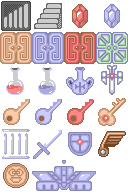
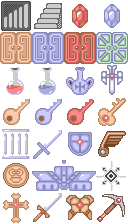
添加了新的怪物

diff --git a/javascript/gameData.js b/javascript/gameData.js
@@ -16,7 +16,7 @@ globalData = {
   mapCol: 11,
   mapRow: 11,
   size: 32,
-  floor: 0, // 7
+  floor: 7, // 7
   playerInfo: {
     HP: 1000,
     ATK: 20,
@@ -266,11 +266,11 @@ globalData = {
     things: [
       ['goods_0_1', 0, 0, 0, 0, 0, 0, 0, 0, 0, 0],
       [0, 0, 0, 'monster16', 0, 'goods_1_1', 0, 'monster12', 0, 0, 0],
-      [0, 0, 'monster16', 'goods_0_3', 0, 0, 0, 'goods_0_2', 'monster12', 0, 0],
+      [0, 0, 'monster16', 'goods_0_3', 0, 'monster24', 0, 'goods_0_2', 'monster12', 0, 0],
       [0, 0, 0, 0, 0, 'goods_4_0', 0, 0, 0, 0, 0],
-      [0, 0, 'goods_1_1', 0, 'goods_4_0', 0, 'goods_4_0', 0, 'goods_1_1', 0, 0],
+      [0, 0, 'goods_1_1', 'monster24', 'goods_4_0', 0, 'goods_4_0', 'monster24', 'goods_1_1', 0, 0],
       [0, 0, 0, 0, 0, 'goods_4_0', 0, 0, 0, 0, 0],
-      [0, 0, 'goods_2_0', 'goods_0_2', 0, 0, 0, 'goods_0_3', 'goods_2_0', 0, 0],
+      [0, 0, 'goods_2_0', 'goods_0_2', 0, 'monster24', 0, 'goods_0_3', 'goods_2_0', 0, 0],
       [0, 0, 'goods_3_0', 'goods_2_0', 0, 'goods_1_1', 0, 'goods_2_0', 'goods_3_0', 0, 0],
       [0, 0, 0, 'goods_3_1', 'goods_3_1', 'goods_2_1', 'goods_3_1', 'goods_3_1', 0, 0, 0],
       [0, 0, 0, 0, 0, 'goods_1_2', 0, 0, 0, 0, 0],
